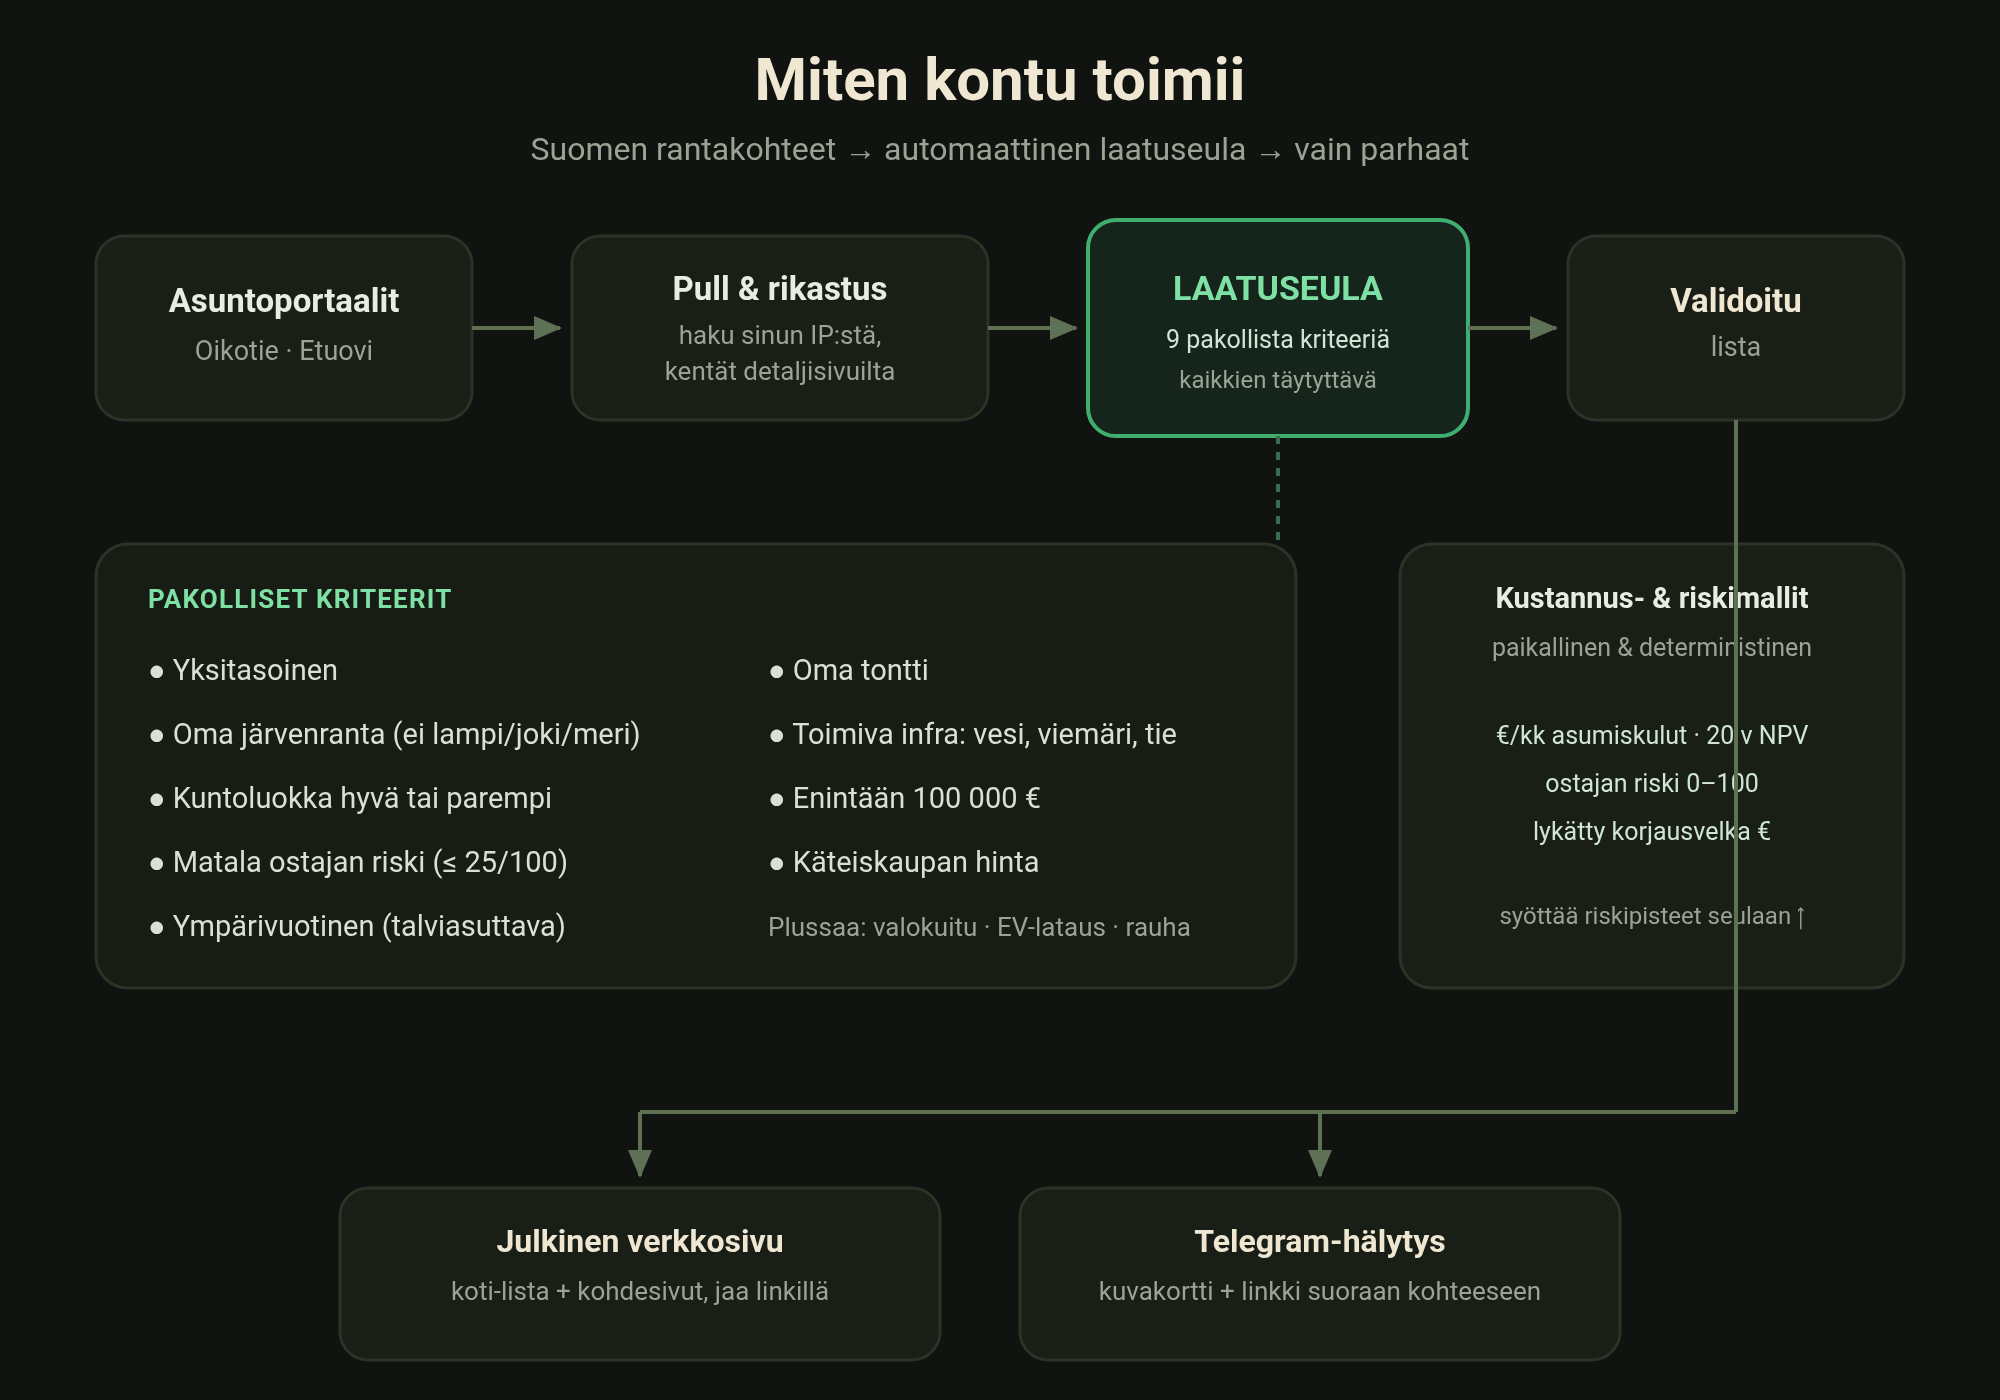
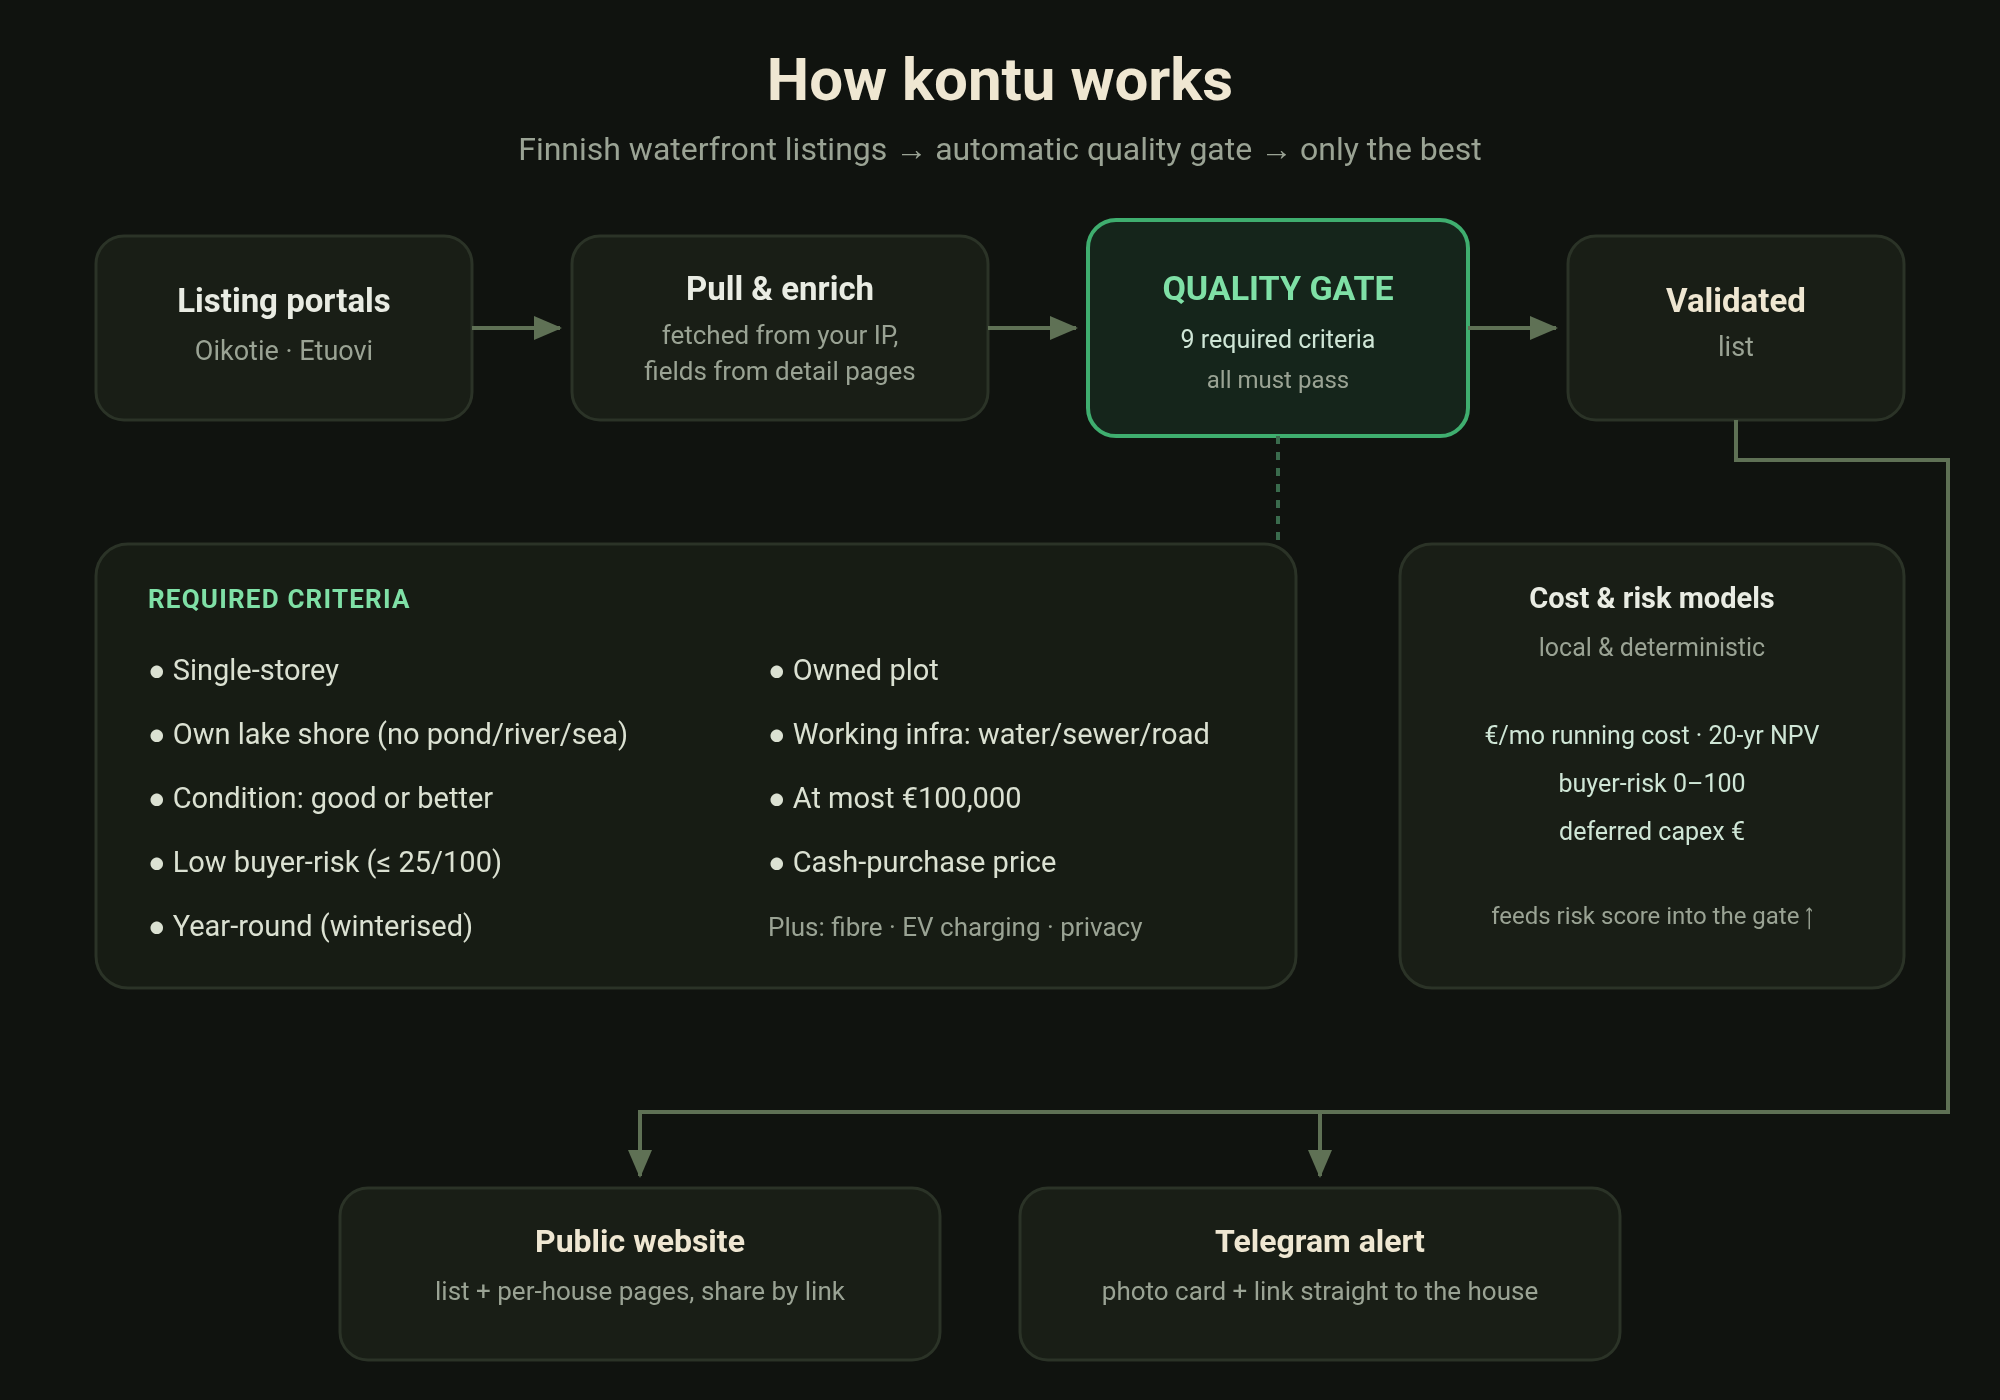
English how-it-works diagram, lightweight CI, README polish
- docs/how-it-works.svg/.png redrawn in English (rendered + visually checked,
  output routing fixed to clear the models box — no overlapping labels)
- .github/workflows/ci.yml: Rust + Worker tests on push/PR, auto-deploy the
  Worker (migrations + wrangler deploy) after tests pass on master
- README: embed diagram, document CI/deploy, open-source framing

diff --git a/README.md b/README.md
@@ -161,6 +161,11 @@ writes the real `database_id` into `wrangler.jsonc`, applies migrations + seed,
 prompts for the `API_TOKEN` secret, and deploys. Then put the deployed URL + token
 into `~/.config/kontu/config.toml`.
 
+CI (`.github/workflows/ci.yml`) runs the Rust + Worker tests on every push and PR,
+and **auto-deploys the Worker** (migrations + `wrangler deploy`) after tests pass on
+`master` — add a `CLOUDFLARE_API_TOKEN` repo secret (Workers Scripts + D1 edit) to
+enable the deploy step.
+
 ## Tests
 
 - Rust: `cd tui && cargo test` (cost engine, risk model, models, API client, and